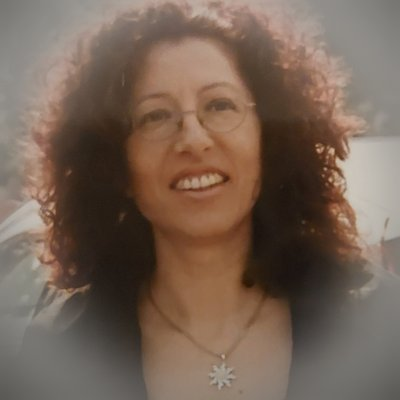
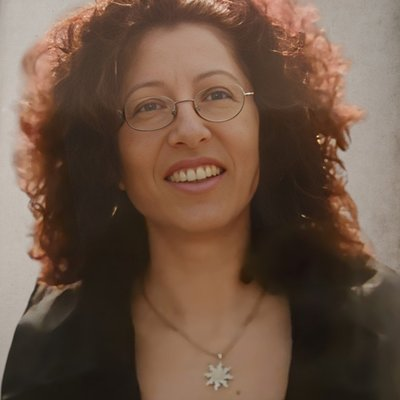
Franzoi Photoroom + Luciana rinominata v2 per cache CDN

diff --git a/assets/index-BcUaAnwM.js b/assets/index-BcUaAnwM.js
@@ -37,7 +37,7 @@ Pensionato, ha un diploma di ragioneria e un master in Tecnica delle Comunicazio
 
 È stato Amministratore Unico di Veneto Agricoltura, Presidente di Intermizoo, Presidente della Corte Benedettina e Presidente di Bioagro, oltre che Presidente dell'Associazione Nazionale Attività Regionali Foreste (ANARF). In questi ruoli ha seguito progetti di sviluppo rurale, filiere agroalimentari, tutela del territorio e gestione sostenibile delle risorse forestali.
 
-Si candida al Consiglio comunale per mettere a disposizione la competenza amministrativa e gestionale maturata in anni di responsabilità pubbliche, con l'obiettivo di promuovere una gestione seria del Comune e politiche che valorizzino ambiente, agricoltura di qualità e beni pubblici.`},{name:"Lucio Gianni",img:"/lucio-gianni.jpg",position:3},{name:"Lucia Baggio",img:"/lucia-baggio.jpg",position:4},{name:"Carmine Barbaro",img:"https://picsum.photos/seed/5/200/200",position:5},{name:"Fabio Bressanello",img:"/fabio-bressanello.jpg",position:6},{name:"Giulia Buzzo",img:"/giulia-buzzo.jpg",position:7},{name:"Lorena Della Togna",img:"https://picsum.photos/seed/8/200/200",position:8},{name:"Luciana Ferretti",img:"/luciana-ferretti.jpg",position:9},{name:"Sonia Franzoi",img:"/sonia-franzoi.jpg",position:10,cvText:`Nata a Venezia il 17 dicembre 1965, risiede a Paese (TV).
+Si candida al Consiglio comunale per mettere a disposizione la competenza amministrativa e gestionale maturata in anni di responsabilità pubbliche, con l'obiettivo di promuovere una gestione seria del Comune e politiche che valorizzino ambiente, agricoltura di qualità e beni pubblici.`},{name:"Lucio Gianni",img:"/lucio-gianni.jpg",position:3},{name:"Lucia Baggio",img:"/lucia-baggio.jpg",position:4},{name:"Carmine Barbaro",img:"https://picsum.photos/seed/5/200/200",position:5},{name:"Fabio Bressanello",img:"/fabio-bressanello.jpg",position:6},{name:"Giulia Buzzo",img:"/giulia-buzzo.jpg",position:7},{name:"Lorena Della Togna",img:"https://picsum.photos/seed/8/200/200",position:8},{name:"Luciana Ferretti",img:"/luciana-ferretti-v2.jpg",position:9},{name:"Sonia Franzoi",img:"/sonia-franzoi.jpg",position:10,cvText:`Nata a Venezia il 17 dicembre 1965, risiede a Paese (TV).
 
 Impiegata amministrativa con oltre 20 anni di esperienza nel settore metalmeccanico, lavora presso Benetti Roberto e T.D.M. S.r.l.s. dove gestisce segreteria, contabilità generale e rapporti con fornitori, clienti e banche. Diploma Magistrale conseguito nel 1984 presso l'Istituto "Duca degli Abruzzi" di Treviso, Corso Operatore Fiscale CGIL.
 
@@ -125,7 +125,7 @@ Pensionato, ha un diploma di ragioneria e un master in Tecnica delle Comunicazio
 
 È stato Amministratore Unico di Veneto Agricoltura, Presidente di Intermizoo, Presidente della Corte Benedettina e Presidente di Bioagro, oltre che Presidente dell'Associazione Nazionale Attività Regionali Foreste (ANARF). In questi ruoli ha seguito progetti di sviluppo rurale, filiere agroalimentari, tutela del territorio e gestione sostenibile delle risorse forestali.
 
-Si candida al Consiglio comunale per mettere a disposizione la competenza amministrativa e gestionale maturata in anni di responsabilità pubbliche, con l'obiettivo di promuovere una gestione seria del Comune e politiche che valorizzino ambiente, agricoltura di qualità e beni pubblici.`},{name:"Lucio Gianni",img:"/lucio-gianni.jpg",position:3},{name:"Lucia Baggio",img:"/lucia-baggio.jpg",position:4},{name:"Carmine Barbaro",img:"https://picsum.photos/seed/5/200/200",position:5},{name:"Fabio Bressanello",img:"/fabio-bressanello.jpg",position:6},{name:"Giulia Buzzo",img:"/giulia-buzzo.jpg",position:7},{name:"Lorena Della Togna",img:"https://picsum.photos/seed/8/200/200",position:8},{name:"Luciana Ferretti",img:"/luciana-ferretti.jpg",position:9},{name:"Sonia Franzoi",img:"/sonia-franzoi.jpg",position:10,cvText:`Nata a Venezia il 17 dicembre 1965, risiede a Paese (TV).
+Si candida al Consiglio comunale per mettere a disposizione la competenza amministrativa e gestionale maturata in anni di responsabilità pubbliche, con l'obiettivo di promuovere una gestione seria del Comune e politiche che valorizzino ambiente, agricoltura di qualità e beni pubblici.`},{name:"Lucio Gianni",img:"/lucio-gianni.jpg",position:3},{name:"Lucia Baggio",img:"/lucia-baggio.jpg",position:4},{name:"Carmine Barbaro",img:"https://picsum.photos/seed/5/200/200",position:5},{name:"Fabio Bressanello",img:"/fabio-bressanello.jpg",position:6},{name:"Giulia Buzzo",img:"/giulia-buzzo.jpg",position:7},{name:"Lorena Della Togna",img:"https://picsum.photos/seed/8/200/200",position:8},{name:"Luciana Ferretti",img:"/luciana-ferretti-v2.jpg",position:9},{name:"Sonia Franzoi",img:"/sonia-franzoi.jpg",position:10,cvText:`Nata a Venezia il 17 dicembre 1965, risiede a Paese (TV).
 
 Impiegata amministrativa con oltre 20 anni di esperienza nel settore metalmeccanico, lavora presso Benetti Roberto e T.D.M. S.r.l.s. dove gestisce segreteria, contabilità generale e rapporti con fornitori, clienti e banche. Diploma Magistrale conseguito nel 1984 presso l'Istituto "Duca degli Abruzzi" di Treviso, Corso Operatore Fiscale CGIL.
 

diff --git a/index.html b/index.html
@@ -82,7 +82,7 @@
       }
     }
     </script>
-    <script type="module" crossorigin src="/assets/index-DWHAw-g7.js"></script>
+    <script type="module" crossorigin src="/assets/index-BcUaAnwM.js"></script>
     <link rel="modulepreload" crossorigin href="/assets/vendor-motion-BK9xnOam.js">
     <link rel="modulepreload" crossorigin href="/assets/vendor-react-D7_2-vha.js">
     <link rel="modulepreload" crossorigin href="/assets/vendor-icons-7A1HLvSc.js">
